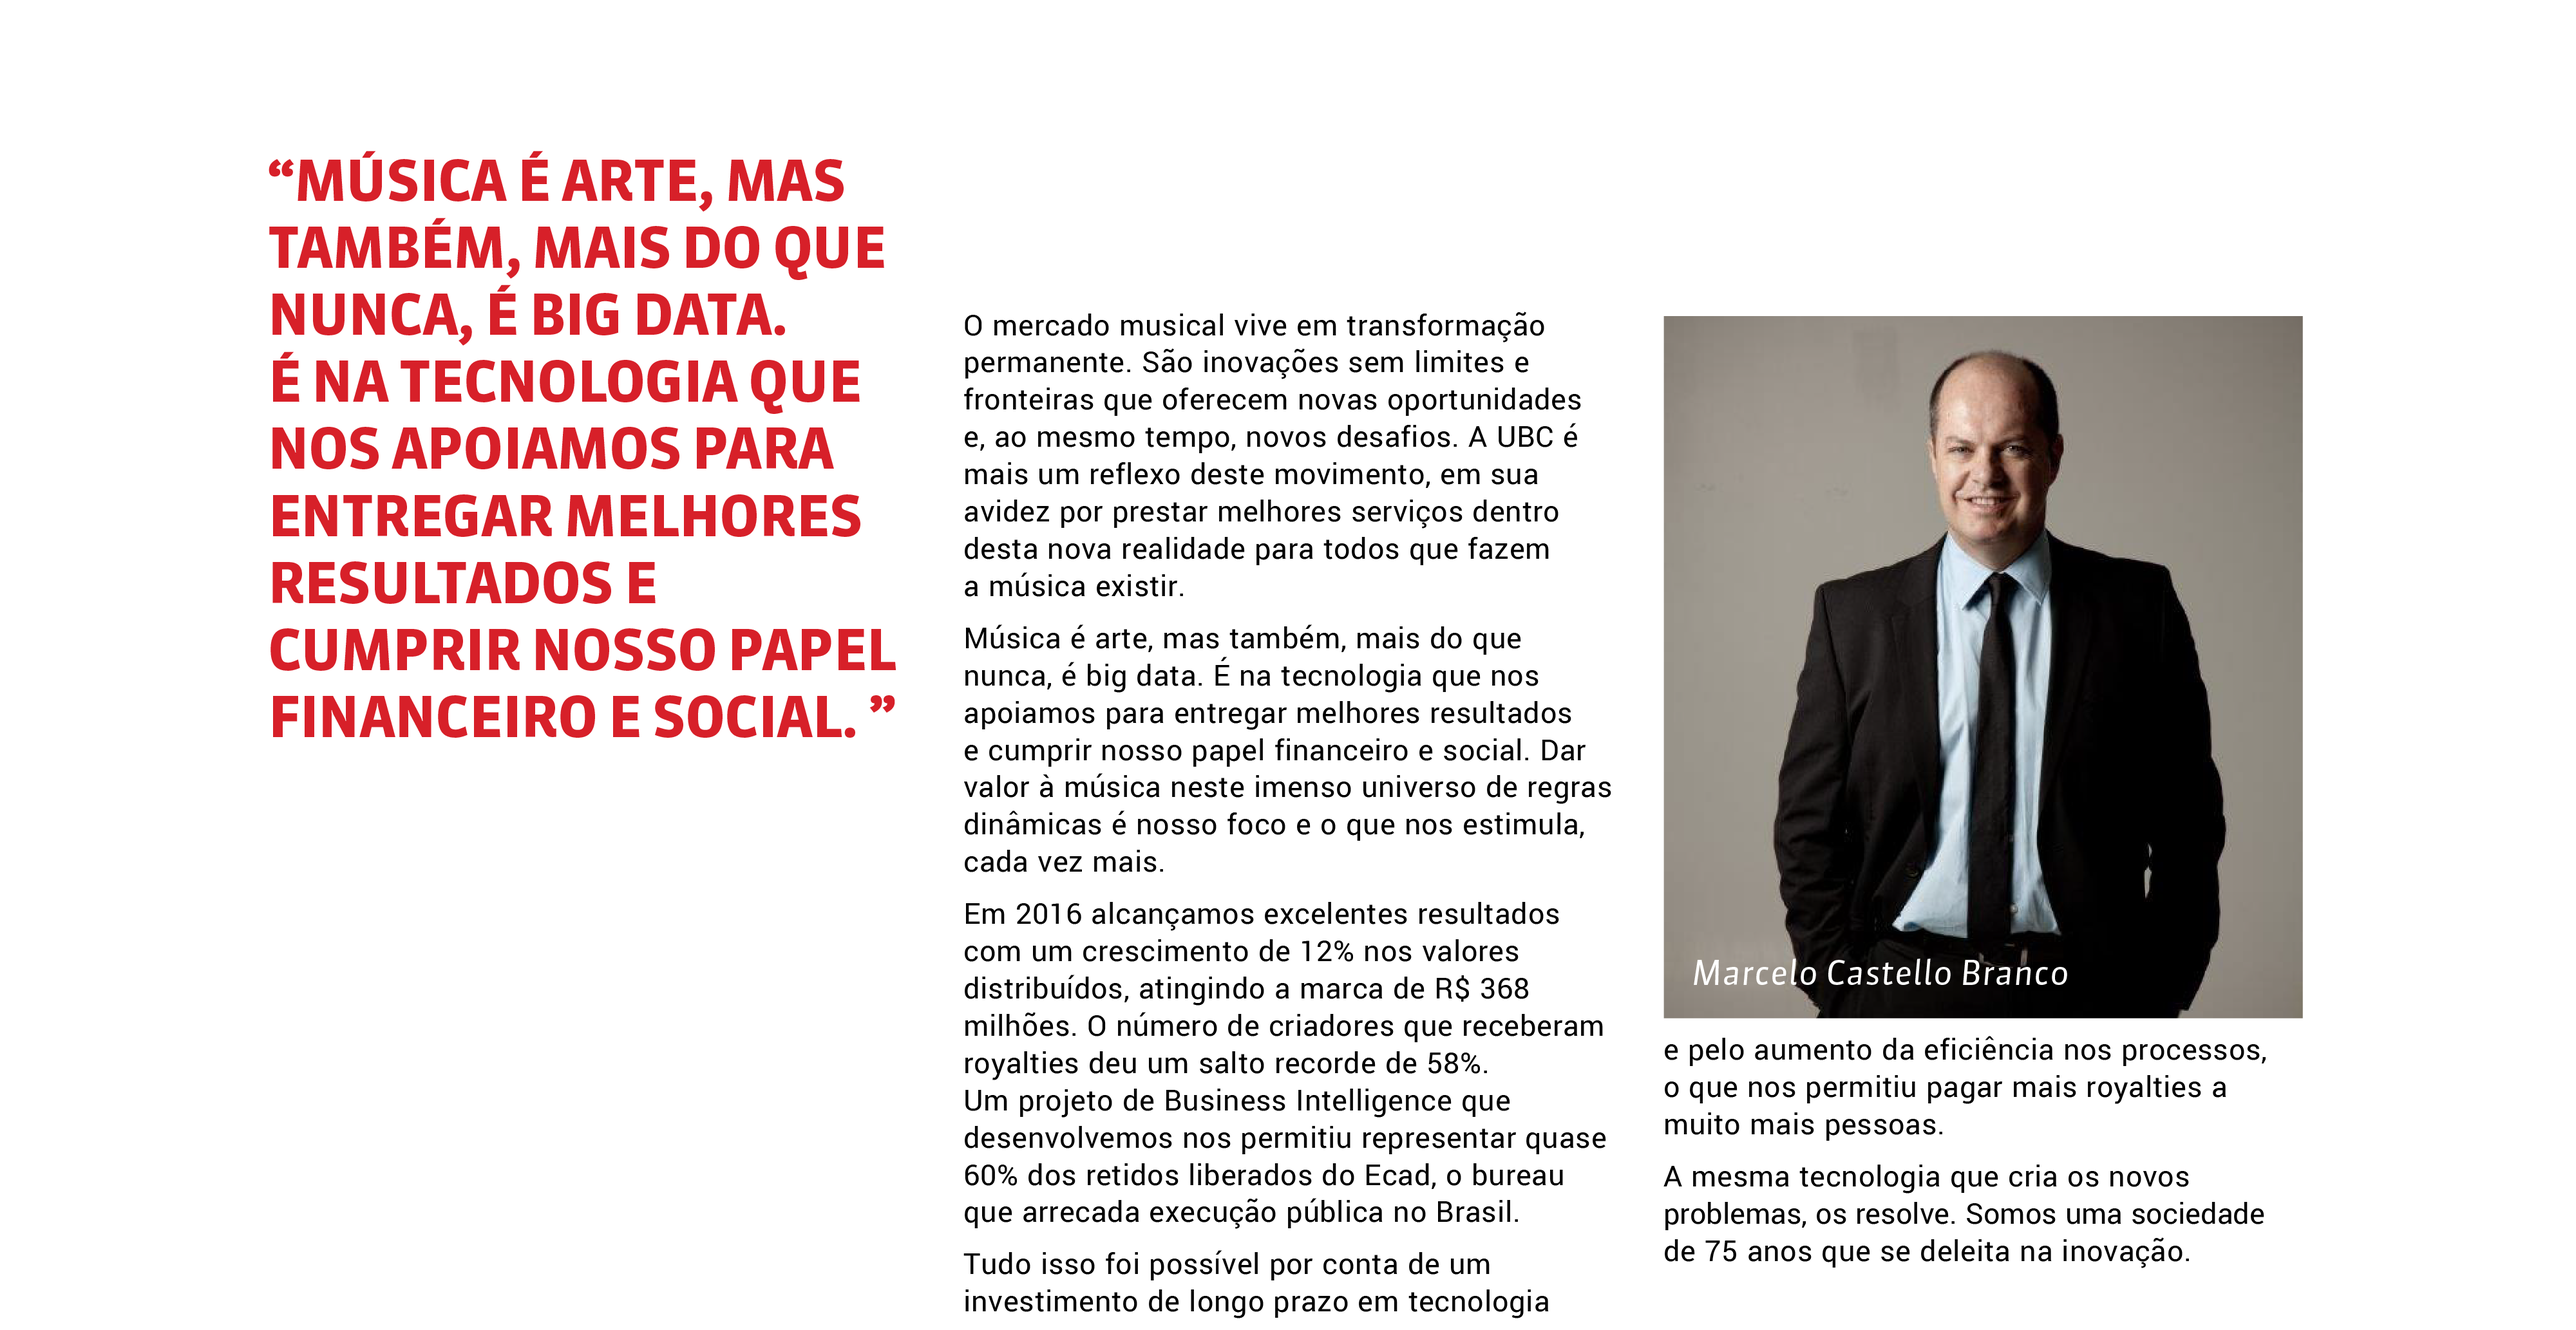
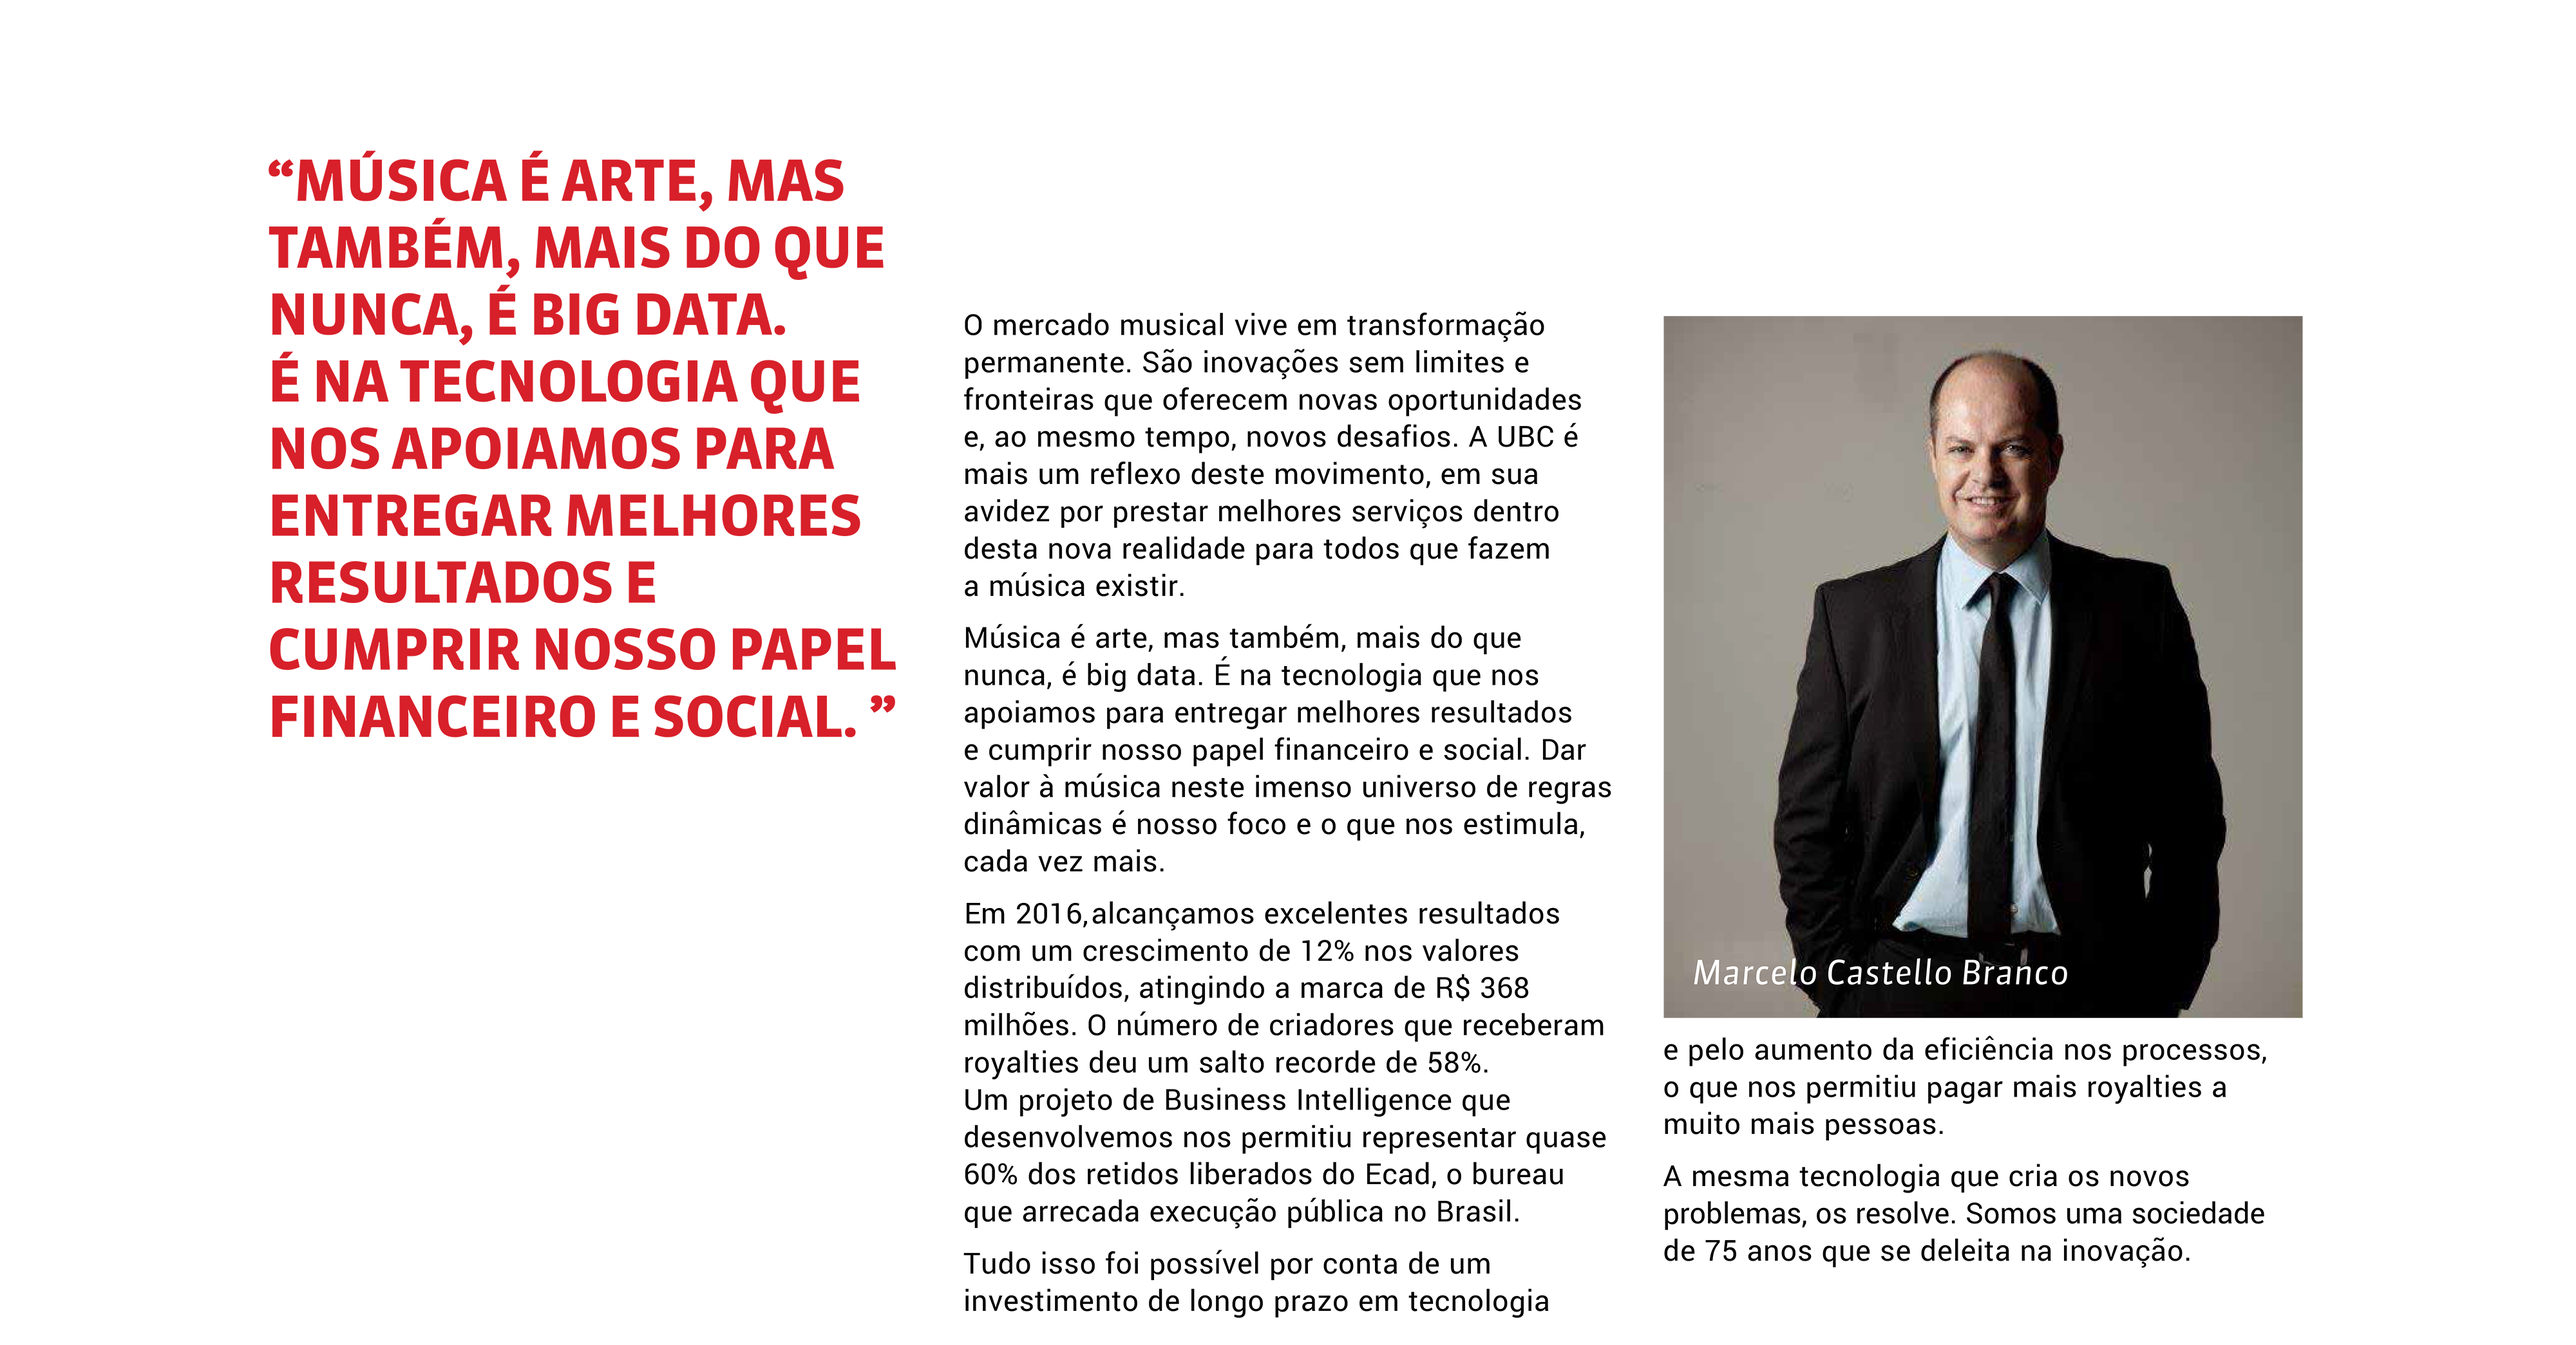
Corrigindo virgula

diff --git a/msg_diretoria.html b/msg_diretoria.html
@@ -138,7 +138,7 @@
                 <div class="col-lg-4 col-md-4 col-sm-6">
                     <p>O mercado musical vive em transformação permanente. São inovações sem limites e fronteiras que oferecem novas oportunidades e, ao mesmo tempo, novos desafios. A UBC é mais um reflexo deste movimento, em sua avidez por prestar melhores serviços dentro desta nova realidade para todos que fazem a música existir.</p>
                     <p>Música é arte, mas também, mais do que nunca, é big data. É na tecnologia que nos apoiamos para entregar melhores resultados e cumprir nosso papel financeiro e social. Dar valor à música neste imenso universo de regras dinâmicas é nosso foco e o que nos estimula, cada vez mais. </p>
-                    <p>Em 2016 alcançamos excelentes resultados com um crescimento de 12% nos valores distribuídos, atingindo a marca de R$ 368 milhões. O número de criadores que receberam royalties deu um salto recorde de 58%. Um projeto de Business Intelligence que desenvolvemos nos permitiu representar quase 60% dos retidos liberados do Ecad, o bureau que arrecada execução pública no Brasil. </p>
+                    <p>Em 2016, alcançamos excelentes resultados com um crescimento de 12% nos valores distribuídos, atingindo a marca de R$ 368 milhões. O número de criadores que receberam royalties deu um salto recorde de 58%. Um projeto de Business Intelligence que desenvolvemos nos permitiu representar quase 60% dos retidos liberados do Ecad, o bureau que arrecada execução pública no Brasil. </p>
                 </div>
                 <div class="col-lg-4 col-md-4 col-sm-6"><img src="assets/img/diretor.png">
                     <p>Tudo isso foi possível por conta de um investimento de longo prazo em tecnologia e pelo aumento da eficiência nos processos, o que nos permitiu pagar mais royalties muito mais pessoas. </p>
